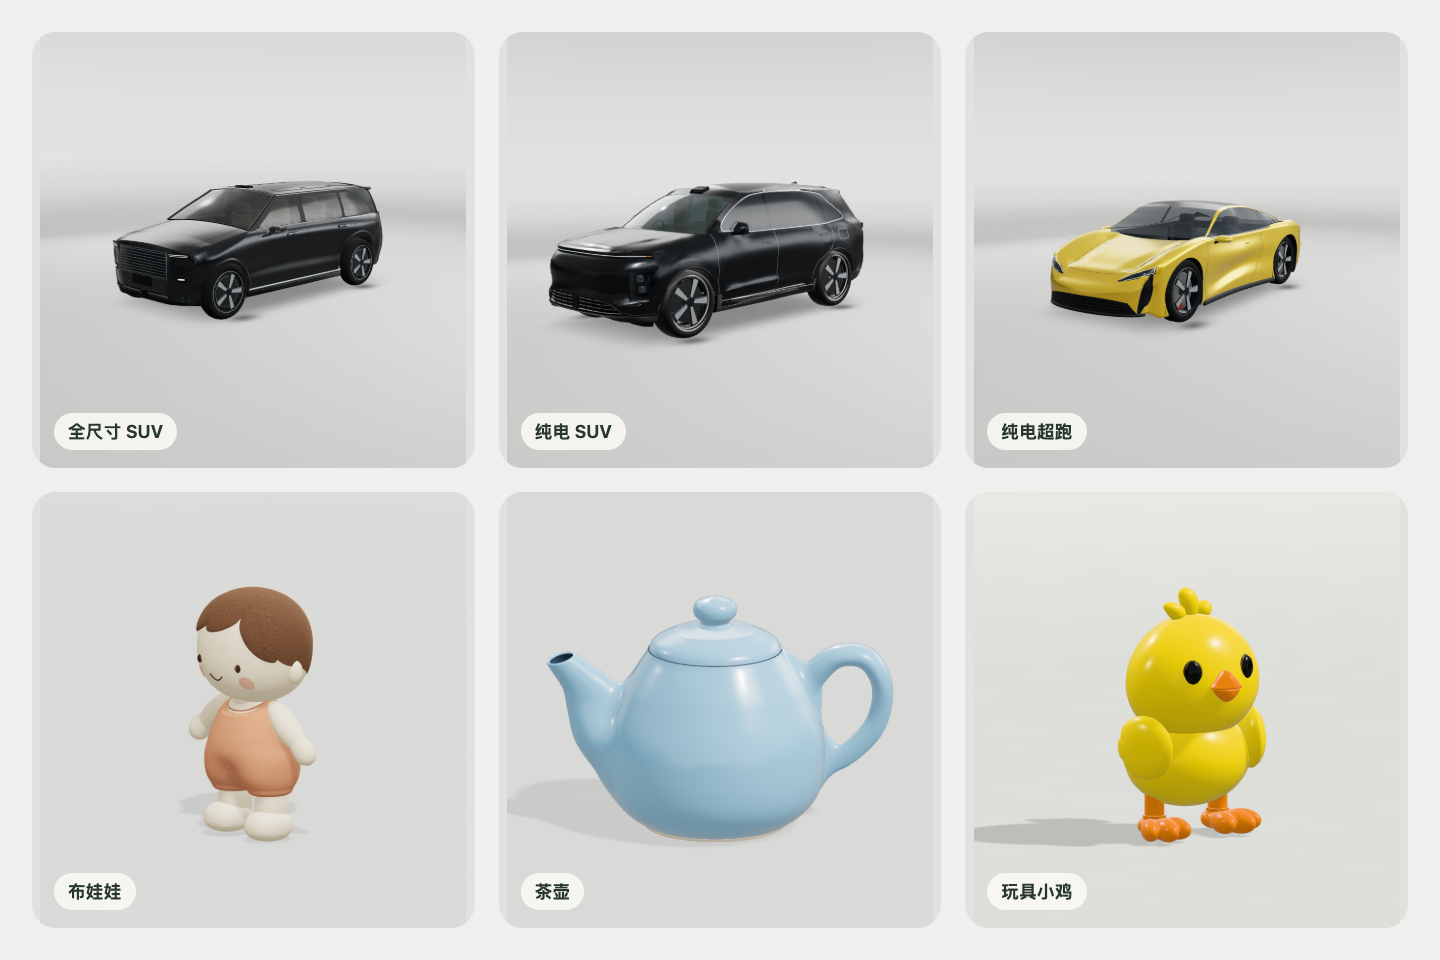
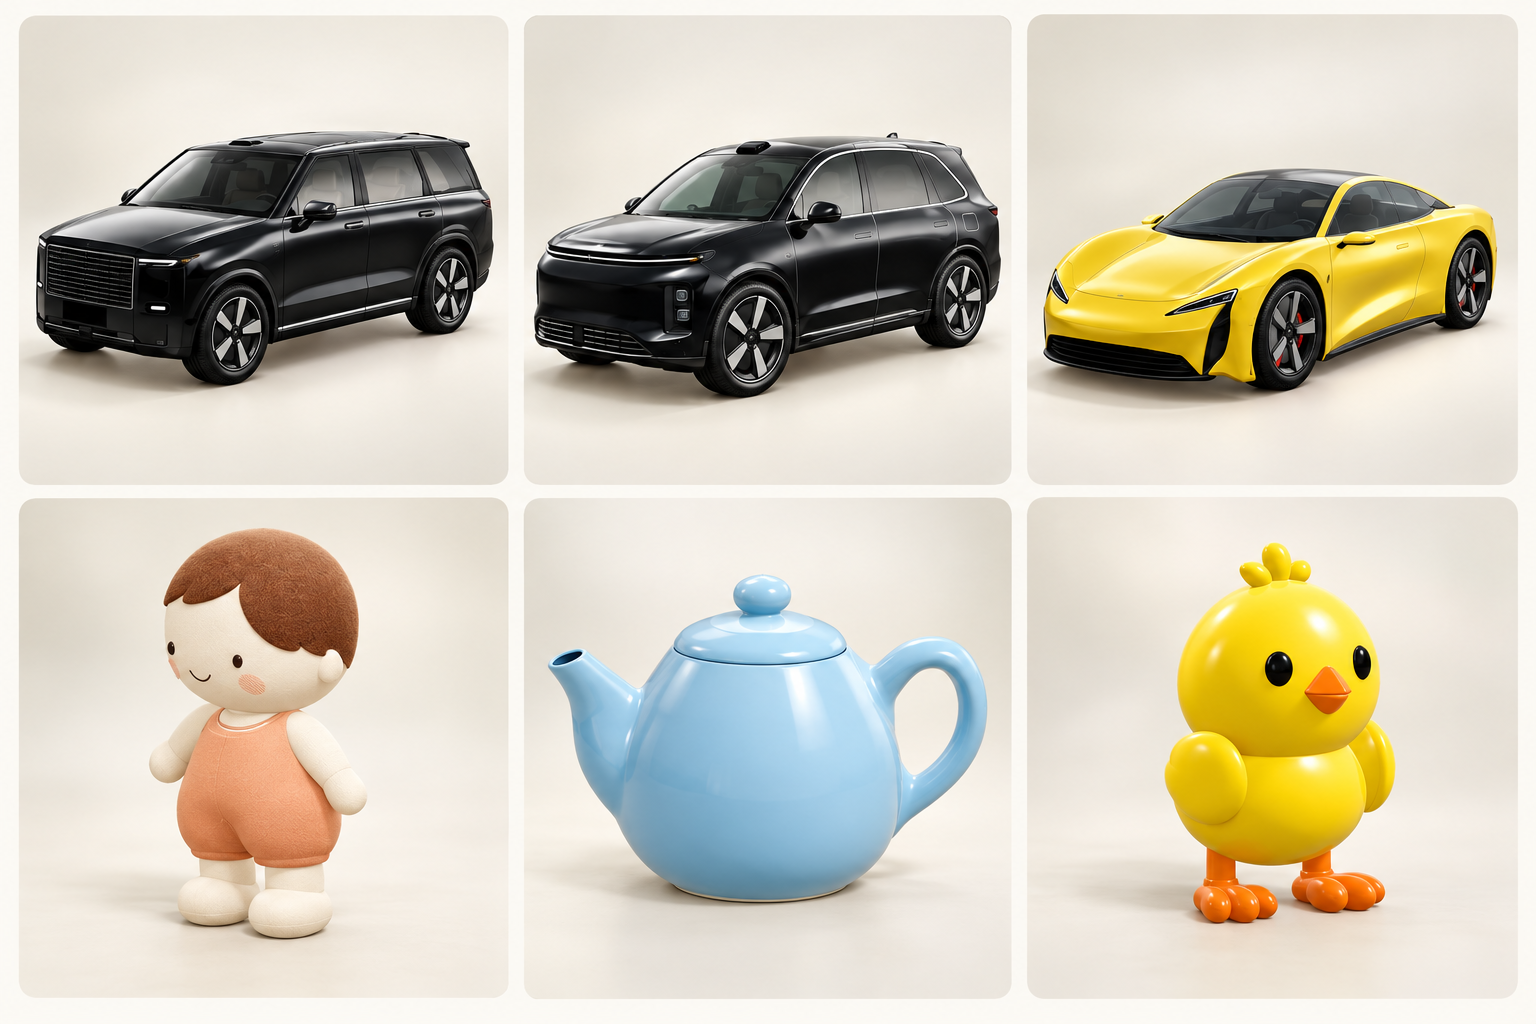
Polish six-model cover for Image to 3D demo

diff --git a/project-image-to-3d.html b/project-image-to-3d.html
@@ -1,1 +1,1 @@
-<!doctype html><html lang="zh-CN"><head><meta charset="utf-8"><meta name="viewport" content="width=device-width,initial-scale=1"><meta name="description" content="从参考图片构建可编辑的 Three.js 模型，支持几何重建、视觉检查与 GLB 导出。"><meta name="theme-color" content="#111e34"><title>image-to-3d · Neo Chen</title><link rel="icon" href="favicon.svg" type="image/svg+xml"><link rel="stylesheet" href="styles.css"><script src="app.js" defer></script><style>.model-demo-preview{display:block;position:relative;border-radius:6px;overflow:hidden;background:#edf0ec}.model-demo-preview>img{display:block;width:100%;height:auto}.model-demo-preview>span{position:absolute;right:22px;bottom:22px;display:flex;align-items:center;gap:18px;padding:13px 20px;background:#15243b;color:white;border-radius:32px;font-size:14px;box-shadow:0 4px 20px #15243b24}.model-demo-preview:hover>span{background:#315cce}@media(max-width:700px){.model-demo-preview>span{right:10px;bottom:10px;padding:9px 13px;font-size:12px;gap:10px}}</style></head><body><a class="skip-link" href="#main">跳到正文</a><header class="header"><a class="brand" href="index.html"><span class="brand-mark">n.</span>Neo Chen<span class="brand-caption">个人创作空间</span></a><button class="menu-toggle" aria-label="打开导航" aria-expanded="false" aria-controls="navigation">☰</button><nav id="navigation"><a href="index.html" >首页</a><a href="works.html" aria-current="page">作品</a><a href="articles.html" >文章</a><a href="about.html" >关于</a><a class="github-nav" href="https://github.com/chemny" target="_blank" rel="noopener noreferrer">GitHub ↗</a></nav></header><main id="main"><section class="detail-intro"><a class="text-link" href="works.html">← 返回作品</a><p class="section-kicker">视觉实验</p><h1>image-to-3d</h1><p>从参考图片构建可编辑的 Three.js 模型，支持几何重建、视觉检查与 GLB 导出。</p><a class="button primary" href="https://github.com/chemny/image-to-3d" target="_blank" rel="noopener noreferrer">查看 GitHub 仓库 ↗</a></section><div class="detail-art"><a class="model-demo-preview" href="demos/3d/" aria-label="打开 Image to 3D 交互式模型网页"><img src="assets/3d-showcase/cover.png" alt="六个当前3D模型的真实截图：全尺寸SUV、纯电SUV、纯电超跑、布娃娃、茶壶和玩具小鸡" width="1440" height="960"><span>点击体验交互式模型 <span aria-hidden="true">↗</span></span></a></div><section class="section project-description"><div><p class="section-kicker">项目概览</p><h2>让平面想象，拥有第三维。</h2></div><div><p>从参考图片构建可编辑的 Three.js 模型，支持几何重建、视觉检查与 GLB 导出。</p><dl><dt>项目类型</dt><dd>视觉实验</dd><dt>主要语言</dt><dd>Python</dd><dt>源码与使用说明</dt><dd><a href="https://github.com/chemny/image-to-3d" target="_blank" rel="noopener noreferrer">chemny/image-to-3d ↗</a></dd></dl><p class="sample-note">能力概述根据公开仓库介绍整理。安装方法、兼容性和最新功能请以仓库文档为准。</p></div></section></main><footer><div class="footer-top"><div><a class="brand footer-brand" href="index.html"><span class="brand-mark">n.</span>Neo Chen</a><p>保持好奇，持续创造。</p></div><a href="https://github.com/chemny" target="_blank" rel="noopener noreferrer">在 GitHub 上找到我 ↗</a></div><div class="footer-bottom"><span>© 2026 Neo Chen</span><span>Built with curiosity.</span><a href="#" class="back-top">回到顶部 ↑</a></div></footer></body></html>
+<!doctype html><html lang="zh-CN"><head><meta charset="utf-8"><meta name="viewport" content="width=device-width,initial-scale=1"><meta name="description" content="从参考图片构建可编辑的 Three.js 模型，支持几何重建、视觉检查与 GLB 导出。"><meta name="theme-color" content="#111e34"><title>image-to-3d · Neo Chen</title><link rel="icon" href="favicon.svg" type="image/svg+xml"><link rel="stylesheet" href="styles.css"><script src="app.js" defer></script><style>.model-demo-preview{display:block;position:relative;border-radius:6px;overflow:hidden;background:#edf0ec}.model-demo-preview>img{display:block;width:100%;height:auto}.model-demo-preview>span{position:absolute;right:22px;bottom:22px;display:flex;align-items:center;gap:18px;padding:13px 20px;background:#15243b;color:white;border-radius:32px;font-size:14px;box-shadow:0 4px 20px #15243b24}.model-demo-preview:hover>span{background:#315cce}@media(max-width:700px){.model-demo-preview>span{right:10px;bottom:10px;padding:9px 13px;font-size:12px;gap:10px}}</style></head><body><a class="skip-link" href="#main">跳到正文</a><header class="header"><a class="brand" href="index.html"><span class="brand-mark">n.</span>Neo Chen<span class="brand-caption">个人创作空间</span></a><button class="menu-toggle" aria-label="打开导航" aria-expanded="false" aria-controls="navigation">☰</button><nav id="navigation"><a href="index.html" >首页</a><a href="works.html" aria-current="page">作品</a><a href="articles.html" >文章</a><a href="about.html" >关于</a><a class="github-nav" href="https://github.com/chemny" target="_blank" rel="noopener noreferrer">GitHub ↗</a></nav></header><main id="main"><section class="detail-intro"><a class="text-link" href="works.html">← 返回作品</a><p class="section-kicker">视觉实验</p><h1>image-to-3d</h1><p>从参考图片构建可编辑的 Three.js 模型，支持几何重建、视觉检查与 GLB 导出。</p><a class="button primary" href="https://github.com/chemny/image-to-3d" target="_blank" rel="noopener noreferrer">查看 GitHub 仓库 ↗</a></section><div class="detail-art"><a class="model-demo-preview" href="demos/3d/" aria-label="打开 Image to 3D 交互式模型网页"><img src="assets/3d-showcase/cover.png?v=polished-20261022" alt="六个当前3D模型的展示封面：全尺寸SUV、纯电SUV、纯电超跑、布娃娃、茶壶和玩具小鸡" width="1536" height="1024"><span>点击体验交互式模型 <span aria-hidden="true">↗</span></span></a></div><section class="section project-description"><div><p class="section-kicker">项目概览</p><h2>让平面想象，拥有第三维。</h2></div><div><p>从参考图片构建可编辑的 Three.js 模型，支持几何重建、视觉检查与 GLB 导出。</p><dl><dt>项目类型</dt><dd>视觉实验</dd><dt>主要语言</dt><dd>Python</dd><dt>源码与使用说明</dt><dd><a href="https://github.com/chemny/image-to-3d" target="_blank" rel="noopener noreferrer">chemny/image-to-3d ↗</a></dd></dl><p class="sample-note">能力概述根据公开仓库介绍整理。安装方法、兼容性和最新功能请以仓库文档为准。</p></div></section></main><footer><div class="footer-top"><div><a class="brand footer-brand" href="index.html"><span class="brand-mark">n.</span>Neo Chen</a><p>保持好奇，持续创造。</p></div><a href="https://github.com/chemny" target="_blank" rel="noopener noreferrer">在 GitHub 上找到我 ↗</a></div><div class="footer-bottom"><span>© 2026 Neo Chen</span><span>Built with curiosity.</span><a href="#" class="back-top">回到顶部 ↑</a></div></footer></body></html>

diff --git a/README.md b/README.md
@@ -27,6 +27,6 @@ GitHub 项目资料读取于 2026-10-13，只展示 chemny 的公开、非 fork 
 
 ## 交互式 3D 个人案例
 
-`project-image-to-3d.html` 保留原有项目详情，原占位图已替换为六个当前模型的真实截图，点击图片直接打开 `demos/3d/`。作品列表保持原有 Image to 3D 条目，不新增独立案例。`demos/3d/` 为六个案例、八个当前模型版本的完整静态演示。演示资源仅按案例选择加载，不包含历史模型、回退数据、清理记录或本机工程脚本。
+`project-image-to-3d.html` 保留原有项目详情，原占位图已替换为六个当前模型的润色展示封面，点击图片直接打开 `demos/3d/`。作品列表保持原有 Image to 3D 条目，不新增独立案例。`demos/3d/` 为六个案例、八个当前模型版本的完整静态演示。演示资源仅按案例选择加载，不包含历史模型、回退数据、清理记录或本机工程脚本。
 
 模型支持 WebGL，部分资源使用浏览器 DecompressionStream 解压，需要现代浏览器和 HTTP(S) 环境；不可通过 file:// 运行。保留 .nojekyll。大模型首次加载所需时间取决于网络和设备，GitHub Pages 发布后应复查线上资源与解压。
